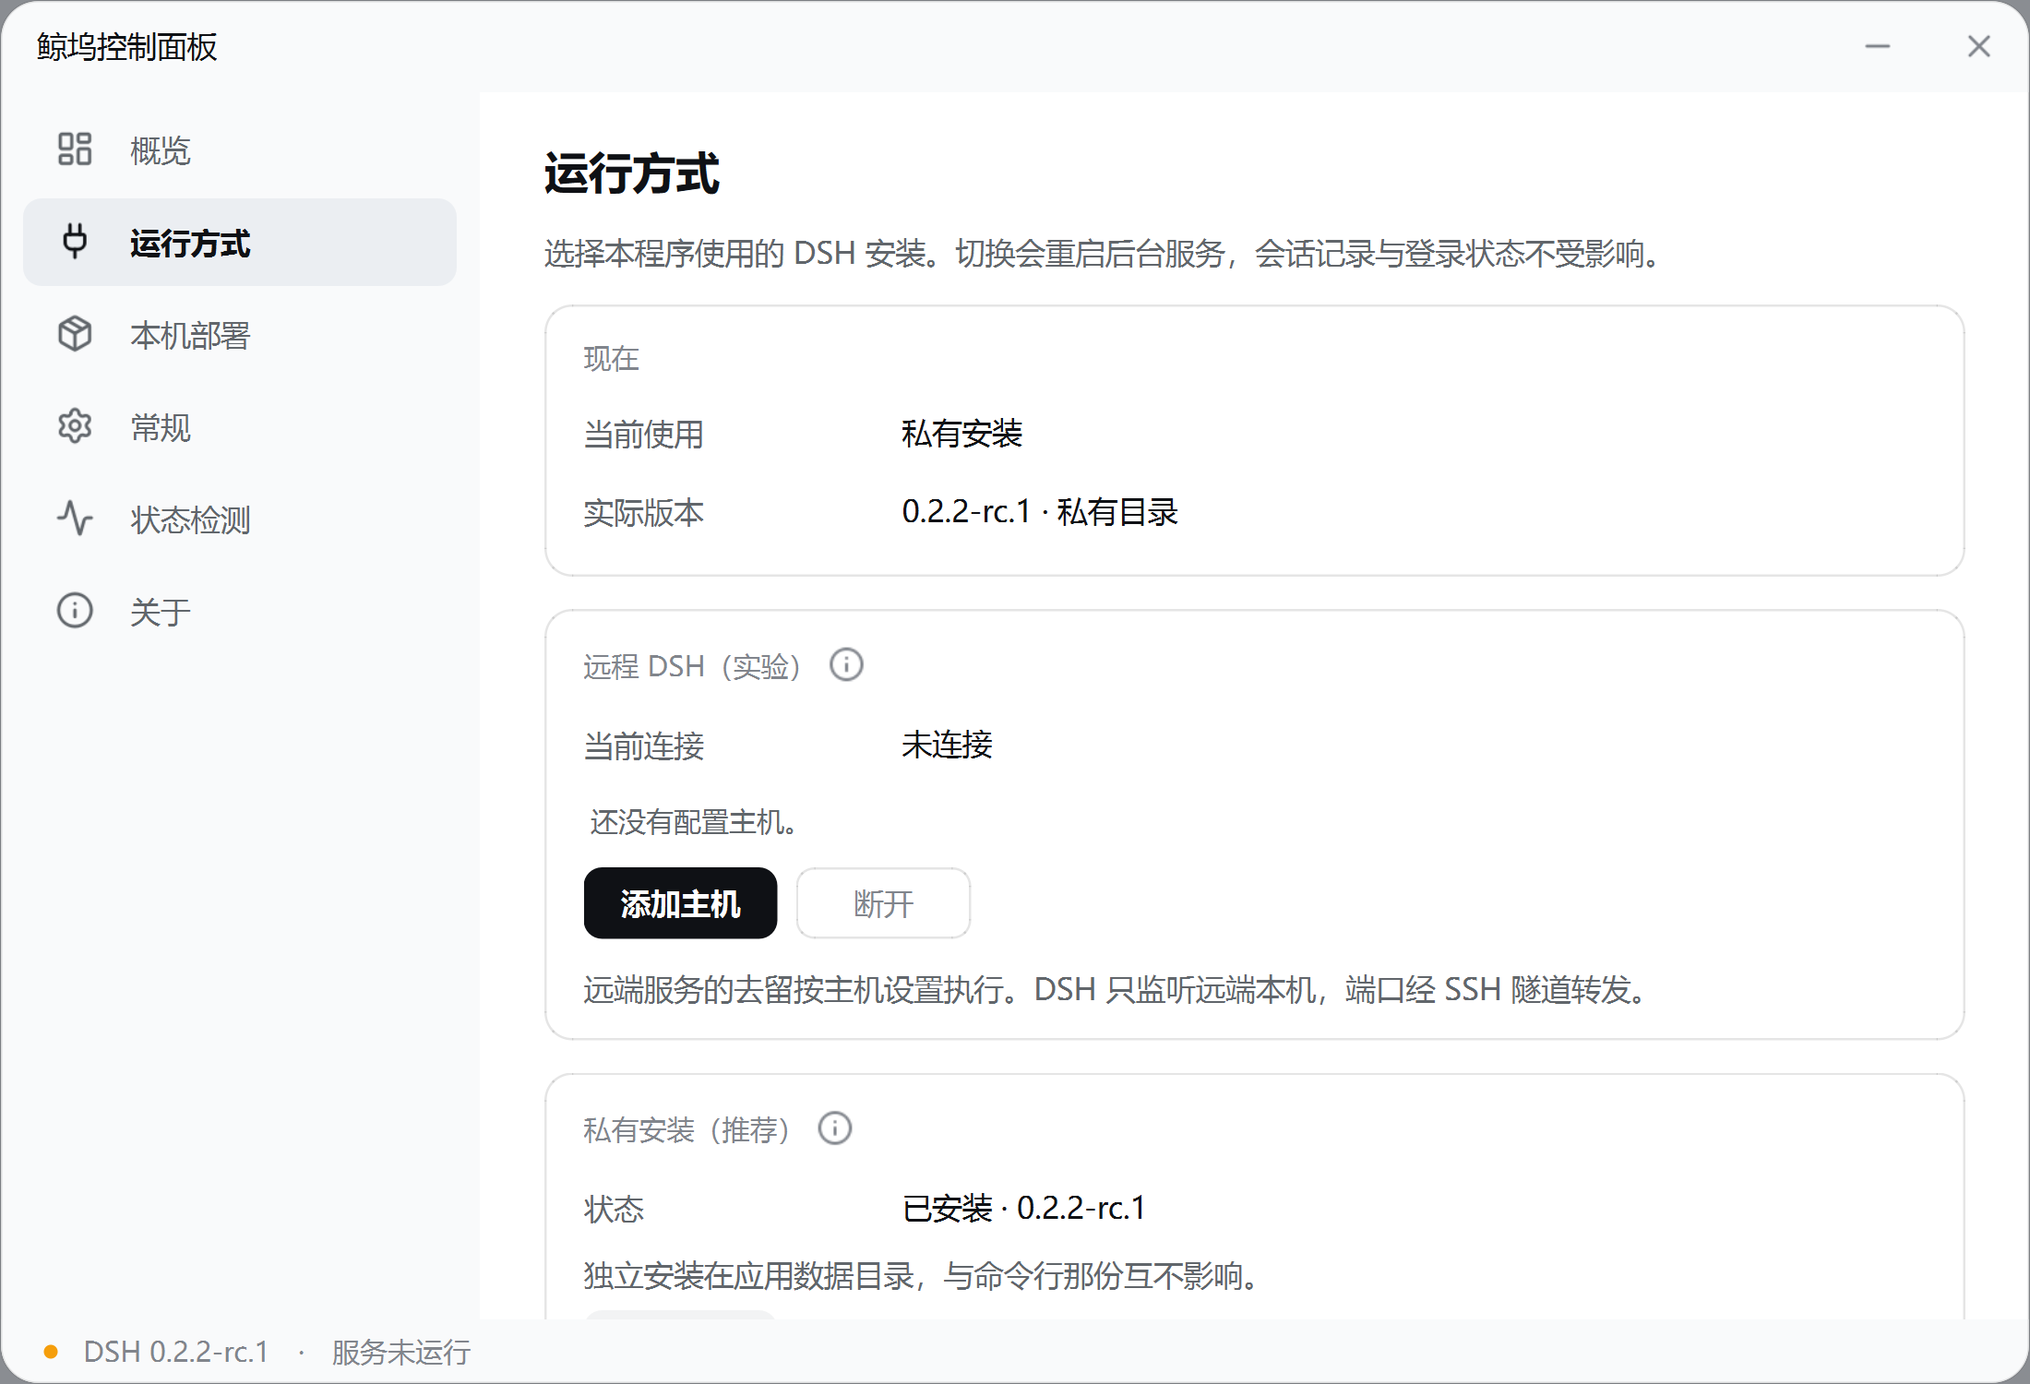
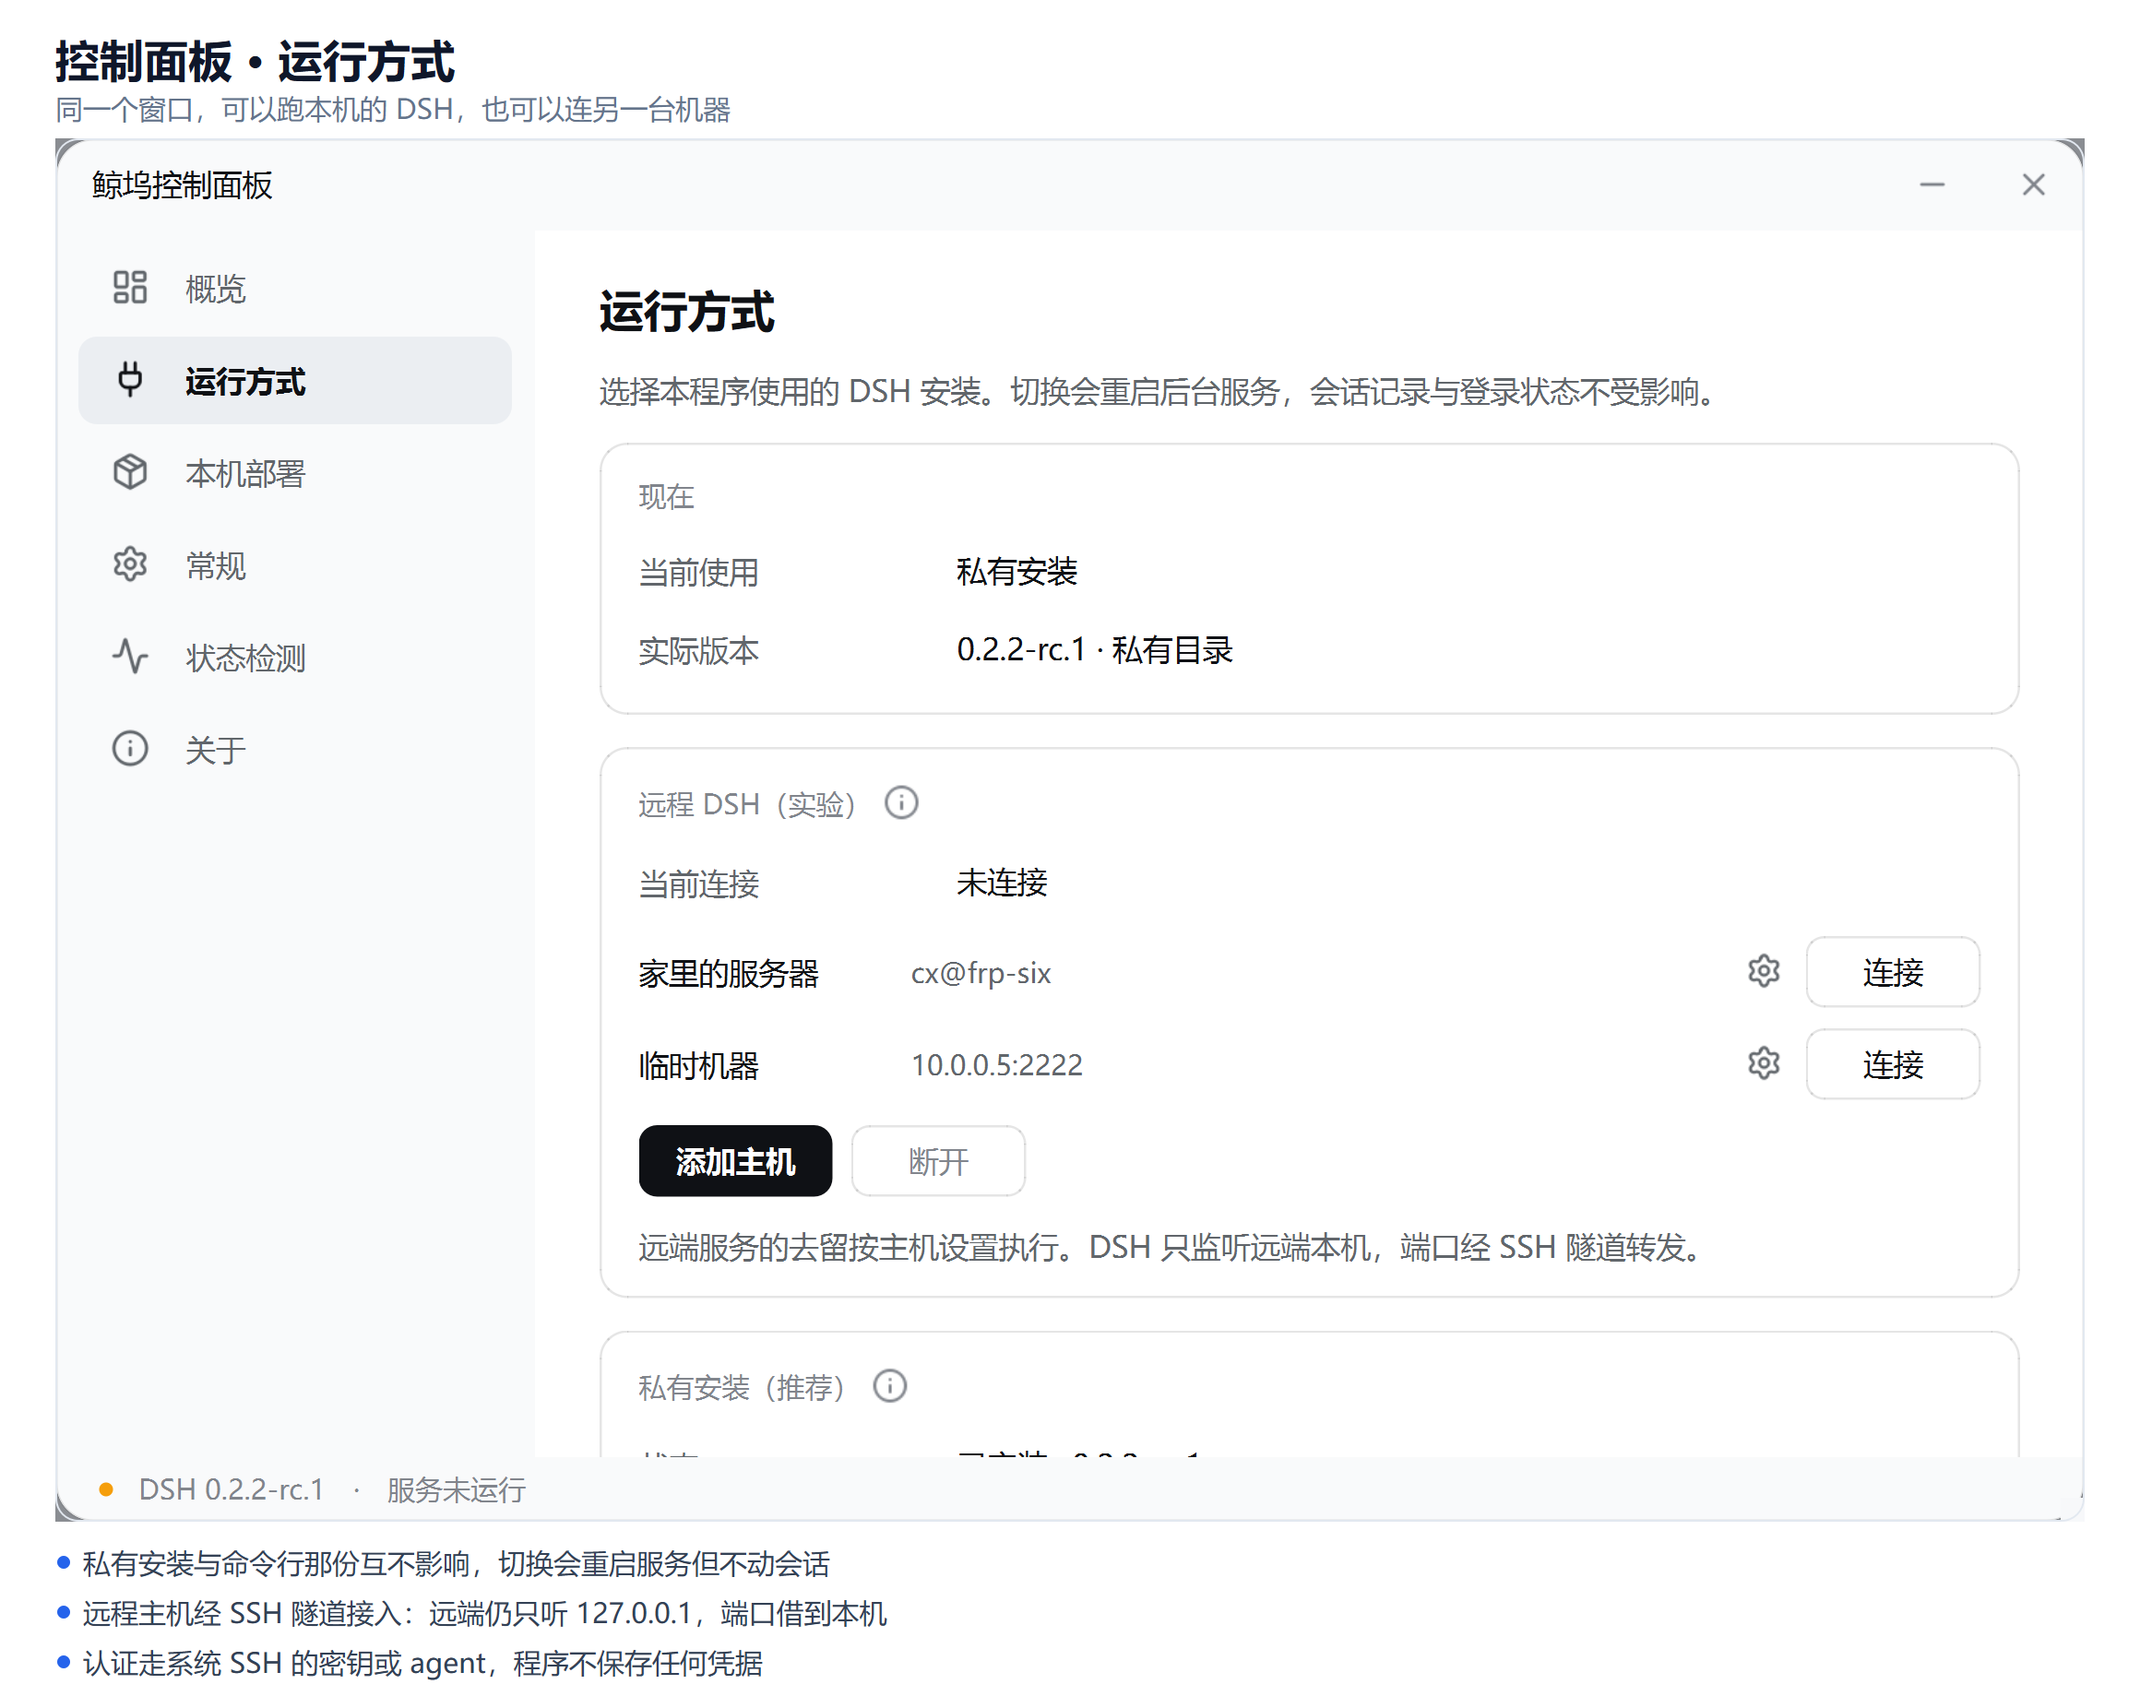
README 截图改成信息图，并把截图/加工工具纳入仓库
问题：原来的图是裸截图直接插入，看图的人不知道哪块是什么、为什么值得看。

做法：截图外围加标题与副标题，图下配三条说明，按'你最常问的问题'排序。**不在图内画序号**——卡片标题本身靠左，任何编号都会压住文字；用图下说明代替，读者从上到下自然对应。

界面章节改为'一节一图'（参考 dsh-go）：概览讲状态与内存，运行方式讲两种安装与远程主机。运行方式的演示状态从'正在建立隧道…'改成未连接——前者会让人以为远程卡住了。

顺带：遮掉 Qt 的尺寸调整手柄（截图右下角的小三角）；tools/shoot_panel.py 与 tools/compose_figure.py 纳入仓库，以后更新配图不必再从 build/ 里翻。

**主界面截图暂缺**：真实会话里含账号、余额、项目路径，裁切与蒙版都不够干净，需要一段专门的演示对话，待确认。

diff --git a/tools/shoot_panel.py b/tools/shoot_panel.py
@@ -1,0 +1,105 @@
+# -*- coding: utf-8 -*-
+"""把控制面板概览页渲染成 PNG，用于人眼核对版式。
+
+`gui_selftest.py` 只断言"是不是对的"，看不出"好不好看"——留白、对齐、
+数字与标签的视觉重量这几件事只能看图（2026-11-12 加内存栏时用的）。
+
+    python tools/shoot_panel.py
+"""
+from __future__ import annotations
+
+import os
+import sys
+import time
+
+ROOT = os.path.dirname(os.path.dirname(os.path.abspath(__file__)))
+sys.path.insert(0, ROOT)
+try:
+    sys.stdout.reconfigure(encoding="utf-8", errors="replace")
+except (AttributeError, OSError):
+    pass
+
+# 2 倍渲染。以前是 1 倍，grab 出来 880px 宽，放进 README 再被缩到 820，
+# 12px 的正文就糊成一团（2026-11-12 老大指出"超低分辨率，无法使用"）。
+# 必须在 QApplication 创建之前设，之后改无效。
+os.environ["QT_SCALE_FACTOR"] = "2"
+
+from PySide6.QtCore import Qt                                    # noqa: E402
+from PySide6.QtGui import QColor, QImage, QPainter               # noqa: E402
+from PySide6.QtWidgets import QApplication                       # noqa: E402
+
+from dsh_ui import panel as dsh_panel                                                 # noqa: E402
+from dsh_host import contract                                    # noqa: E402
+
+OUT = os.path.dirname(os.path.abspath(__file__))
+
+
+def pump(seconds: float) -> None:
+    end = time.monotonic() + seconds
+    while time.monotonic() < end:
+        QApplication.processEvents()
+        time.sleep(0.01)
+
+
+def shoot(theme: str, out_path: str, root_pid: int | None = None,
+          page: int = 0, demo_remote: bool = False) -> None:
+    rep = contract.diagnose(verify=False)
+    kw = {}
+    if demo_remote:
+        from dsh_host import remote
+        fake = [remote.SshHost(name="家里的服务器", host="frp-six", user="cx",
+                               keep_service=remote.KEEP_KEEP),
+                remote.SshHost(name="临时机器", host="10.0.0.5", port=2222)]
+        # 用"未连接"而不是"连接中"：后者会让读者以为远程卡住了。
+        # 首发状态本来就是没连，展示这个更诚实。
+        state = {}
+        kw.update(remote_hosts=lambda: list(fake),
+                  remote_state=lambda: dict(state))
+    host = dsh_panel.PanelHost(install=rep.install, handle=None,
+                               theme=lambda: theme, **kw)
+    panel = dsh_panel.ControlPanel(host)
+    panel.show()
+    pump(3.2)                     # 等一轮内存采样回来（间隔 2 秒）
+    if page:
+        panel.goto(page)
+        pump(0.8)
+
+    # `--pid` 时用真实的整棵进程树渲染一遍：本脚本自己没有子进程，
+    # 只有指定真实壳的 pid 才看得到"网页 / 后台服务"都有数的样子。
+    if root_pid:
+        from dsh_host import procmem
+        op = panel.pages.get(0)
+        if op is not None:
+            op._apply_mem(procmem.snapshot(root_pid))
+            pump(0.2)
+
+    shot = panel.grab().toImage()
+    # 圆角外的区域是透明的，垫一层纯色才看得出边界。
+    # **画布必须按物理像素建、并继承 devicePixelRatio**：`QPixmap.size()` 是逻辑
+    # 尺寸，直接拿它建画布会把 2 倍图缩回 1 倍——README 里那张糊图就是这么来的。
+    canvas = QImage(shot.size(), QImage.Format.Format_RGB32)
+    canvas.setDevicePixelRatio(shot.devicePixelRatio())
+    canvas.fill(QColor("#8a8d92"))
+    p = QPainter(canvas)
+    p.drawImage(0, 0, shot)
+    p.end()
+    canvas.save(out_path)
+    print("已保存", out_path)
+
+    panel.shutdown(4000)
+    panel.close()
+
+
+if __name__ == "__main__":
+    app = QApplication([])                                       # noqa: F841
+    pid, page, demo = 0, 0, "--demo-remote" in sys.argv
+    for i, a in enumerate(sys.argv):
+        if a == "--pid" and i + 1 < len(sys.argv):
+            pid = int(sys.argv[i + 1])
+        if a == "--page" and i + 1 < len(sys.argv):
+            page = int(sys.argv[i + 1])
+    tag = "page%d" % page if page else "mem"
+    shoot("light", os.path.join(OUT, "panel-%s-light.png" % tag), pid or None,
+          page=page, demo_remote=demo)
+    shoot("dark", os.path.join(OUT, "panel-%s-dark.png" % tag), pid or None,
+          page=page, demo_remote=demo)

diff --git a/tools/compose_figure.py b/tools/compose_figure.py
@@ -1,0 +1,93 @@
+# -*- coding: utf-8 -*-
+"""把面板截图加工成 README 用的"信息图"。
+
+做法：截图外围加标题与副标题，下方配三条说明（对应图里的三块内容）。
+**不在图内画序号**——卡片标题本身就靠左，任何编号都会压住文字；
+用"图下的三条说明"代替，读者按从上到下的顺序自然对应，视觉也干净。
+
+    python tools/compose_figure.py <in.png> <out.png> <标题> <副标题> <说明1> <说明2> <说明3>
+"""
+from __future__ import annotations
+
+import sys
+
+from PySide6.QtCore import QPointF, QRect, QRectF, Qt
+from PySide6.QtGui import QColor, QFont, QGuiApplication, QImage, QPainter, QPen
+
+try:
+    sys.stdout.reconfigure(encoding="utf-8", errors="replace")
+except (AttributeError, OSError):
+    pass
+
+_APP = None
+FAM = "Microsoft YaHei UI"
+PAD = 60
+TOP = 150          # 标题 + 副标题 + 呼吸
+BOTTOM_PAD = 40
+
+
+def compose(src_path: str, out_path: str, title: str, subtitle: str,
+            notes: list[str]) -> None:
+    # QPainter 画文字要字体引擎，字体引擎要 QGuiApplication。
+    # 缺了它不会抛异常，`save()` 直接静默失败——第一次跑就栽在这，白查十分钟。
+    global _APP
+    if QGuiApplication.instance() is None:
+        _APP = QGuiApplication(sys.argv[:1])
+
+    src = QImage(src_path)
+    if src.isNull():
+        raise SystemExit("读不到输入图：%s" % src_path)
+    W, H = src.width(), src.height()
+    legend_h = 54 * len(notes)
+    OUT_W = W + PAD * 2
+    OUT_H = TOP + H + legend_h + BOTTOM_PAD
+
+    canvas = QImage(OUT_W, OUT_H, QImage.Format.Format_RGB32)
+    canvas.fill(QColor("#ffffff"))
+    p = QPainter(canvas)
+    p.setRenderHint(QPainter.RenderHint.Antialiasing, True)
+    p.setRenderHint(QPainter.RenderHint.TextAntialiasing, True)
+
+    f_title = QFont(FAM); f_title.setPixelSize(48); f_title.setBold(True)
+    f_sub = QFont(FAM); f_sub.setPixelSize(30)
+    f_note = QFont(FAM); f_note.setPixelSize(30)
+
+    p.setPen(QColor("#0f172a")); p.setFont(f_title)
+    p.drawText(QRect(PAD, 34, OUT_W - PAD * 2, 62),
+               Qt.AlignmentFlag.AlignLeft | Qt.AlignmentFlag.AlignVCenter, title)
+    p.setPen(QColor("#64748b")); p.setFont(f_sub)
+    p.drawText(QRect(PAD, 96, OUT_W - PAD * 2, 44),
+               Qt.AlignmentFlag.AlignLeft | Qt.AlignmentFlag.AlignVCenter, subtitle)
+
+    # 截图右下角会带上 Qt 的尺寸调整手柄（那个小三角），放进 README 很出戏。
+    # 面板本身也允许拖拽缩放，但图里不需要展示这个能力。
+    src = src.copy()
+    grip = QPainter(src)
+    grip.fillRect(QRect(W - 26, H - 26, 26, 26), QColor("#f7f8fa"))
+    grip.end()
+
+    p.drawImage(PAD, TOP, src)
+    # 截图本身是白底，给它一圈细边才在白画布上有边界
+    p.setPen(QPen(QColor("#e2e8f0"), 2))
+    p.setBrush(Qt.BrushStyle.NoBrush)
+    p.drawRoundedRect(QRectF(PAD + 1, TOP + 1, W - 2, H - 2), 24, 24)
+
+    y = TOP + H + 26
+    for note in notes:
+        p.setPen(Qt.PenStyle.NoPen); p.setBrush(QColor("#2563eb"))
+        p.drawEllipse(QPointF(PAD + 9, y + 18), 7, 7)
+        p.setPen(QColor("#334155")); p.setFont(f_note)
+        p.drawText(QRectF(PAD + 30, y, OUT_W - PAD * 2 - 30, 38),
+                   Qt.AlignmentFlag.AlignLeft | Qt.AlignmentFlag.AlignVCenter, note)
+        y += 54
+
+    p.end()
+    canvas.save(out_path, "PNG")
+    print("已生成 %s  %dx%d" % (out_path, canvas.width(), canvas.height()))
+
+
+if __name__ == "__main__":
+    a = sys.argv[1:]
+    if len(a) < 6:
+        raise SystemExit("用法：compose_figure.py <in> <out> <标题> <副标题> <说明1> <说明2> <说明3>")
+    compose(a[0], a[1], a[2], a[3], a[4:])

diff --git a/README.md b/README.md
@@ -11,10 +11,6 @@
   <img alt="size" src="https://img.shields.io/badge/download-102%20MB-4a5568">
 </p>
 
-<p align="center">
-  <img src="docs/images/panel-overview.png" alt="控制面板 · 概览" width="860">
-</p>
-
 ## 它解决什么问题
 
 DSH 官方只提供 CLI。要使用 Web UI，需要自行在终端执行 `dsh web`，从输出里复制带 token 的长地址粘贴到浏览器；终端关闭后服务随之终止，下次重新来过。
@@ -116,11 +112,35 @@ GitHub Actions 会运行自测、构建 exe、创建 Release。工作流校验 t
 
 ## 界面
 
+控制面板用原生控件绘制，不额外开一个 WebEngine 实例——每开一个页面就是多占一百多兆，
+而它要展示的只是几行状态和几个开关。
+
+### 概览：先知道它现在是什么状态
+
 <p align="center">
-  <img src="docs/images/panel-runmode.png" alt="控制面板 · 运行方式" width="860">
+  <img src="docs/images/panel-overview.png" alt="控制面板概览页：版本与来源、后台服务状态、按进程树归拢的内存占用" width="100%">
 </p>
 
-控制面板与主窗口共用同一套配色来源：标题栏从界面取色后推导明暗，面板据此切换。所有说明性内容收在标题右侧的 ⓘ 中，正文只保留结论。
+三块内容按"你最常问的问题"排：
+
+- **当前状态** —— 用的哪份安装、什么版本、后台服务起没起
+- **内存占用** —— 按进程树归拢成主进程 / 网页 / 后台服务，只算私有内存
+  （任务管理器那列是工作集，窗口最小化会掉到几十兆，看着像释放了，其实没有）
+- **进入工作** —— 同一个窗口切到工作区，不必再去终端复制带令牌的地址
+
+### 运行方式：本机，或者另一台机器
+
+<p align="center">
+  <img src="docs/images/panel-runmode.png" alt="控制面板运行方式页：私有安装与命令行共用两种模式，以及远程主机列表" width="100%">
+</p>
+
+- **私有安装** 与命令行那份互不影响：升级只动它，不会因为终端里的 `npm` 操作
+  变成"主程序升了、组件还在旧版"（这个症状的排查见下节）
+- **公共安装** 直接用命令行那份，不额外占磁盘，代价同上——两边共用一套文件
+- **远程主机** 经 SSH 隧道接入：远端 DSH 仍然只监听 `127.0.0.1`，端口借到本机，
+  认证走系统 SSH 的密钥或 agent，程序不保存任何凭据
+
+远程功能目前标着「实验」：代码完整，但"复用远端已启动的实例"这条判据还没在真机验证过。
 
 ## 架构
 
